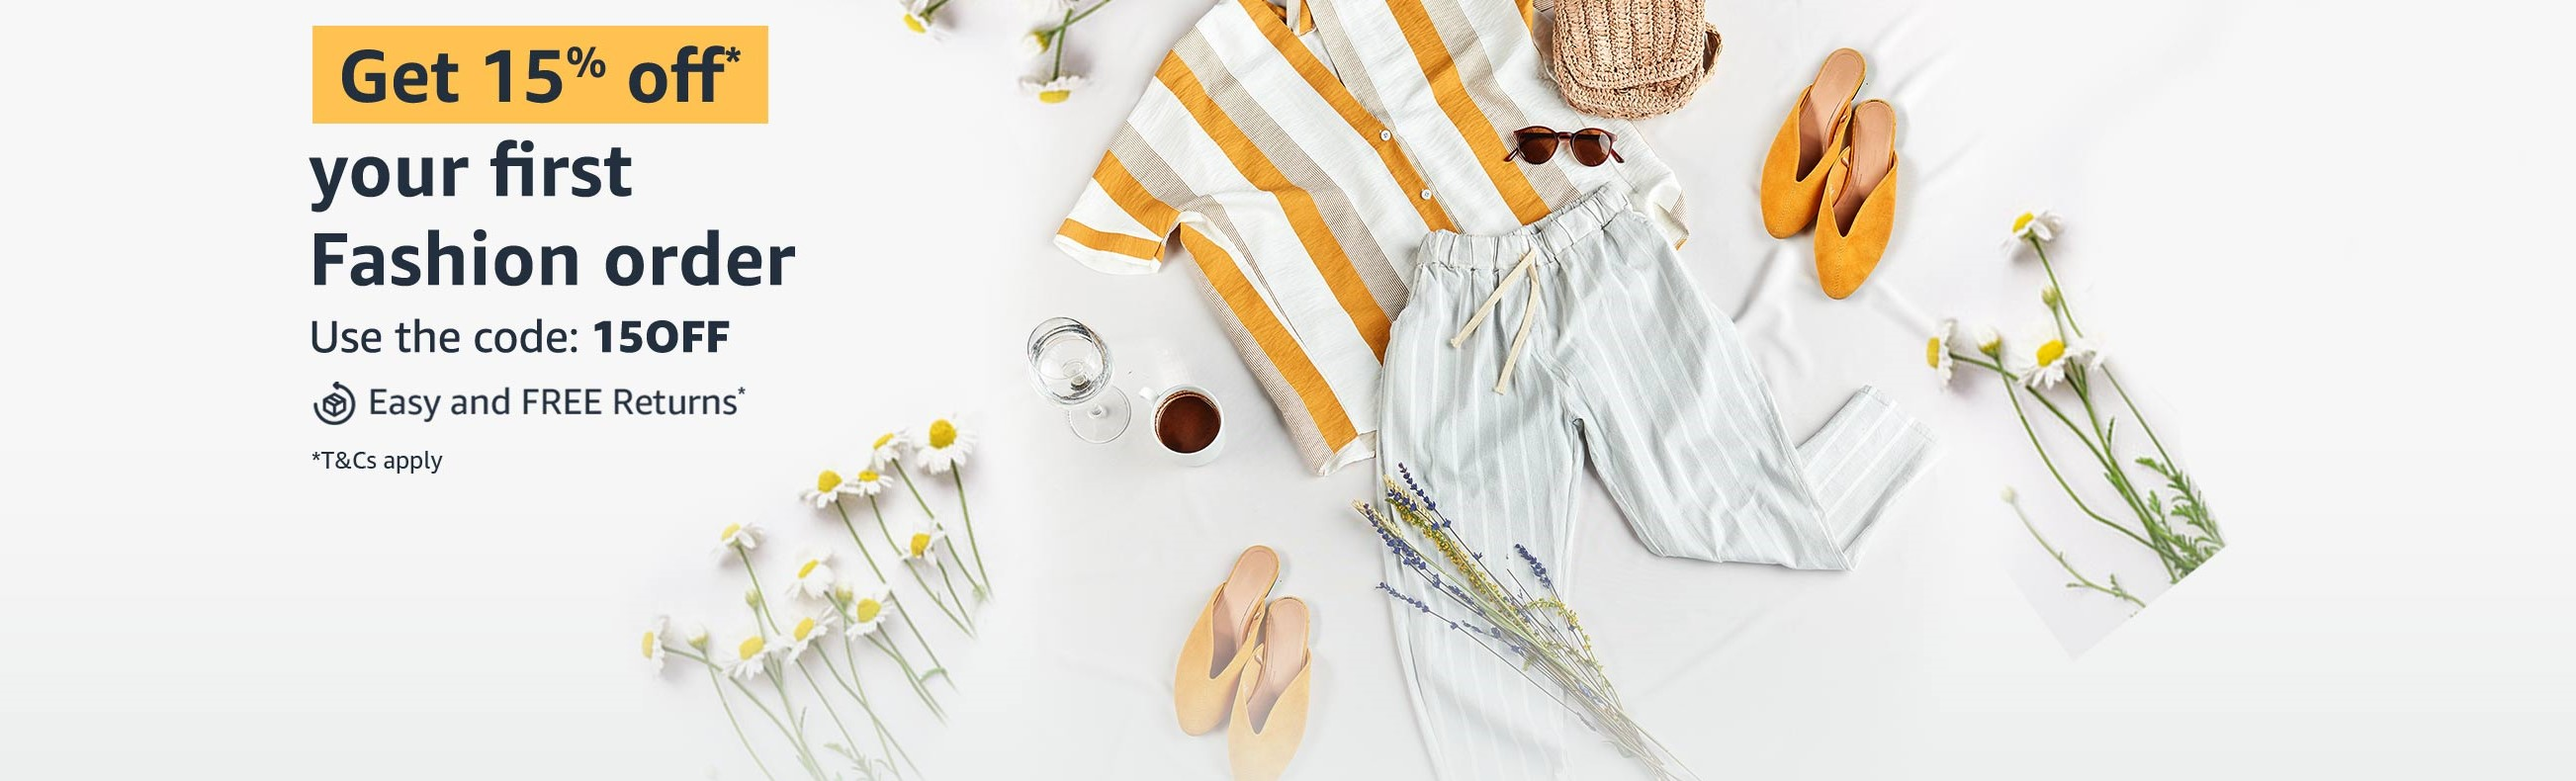
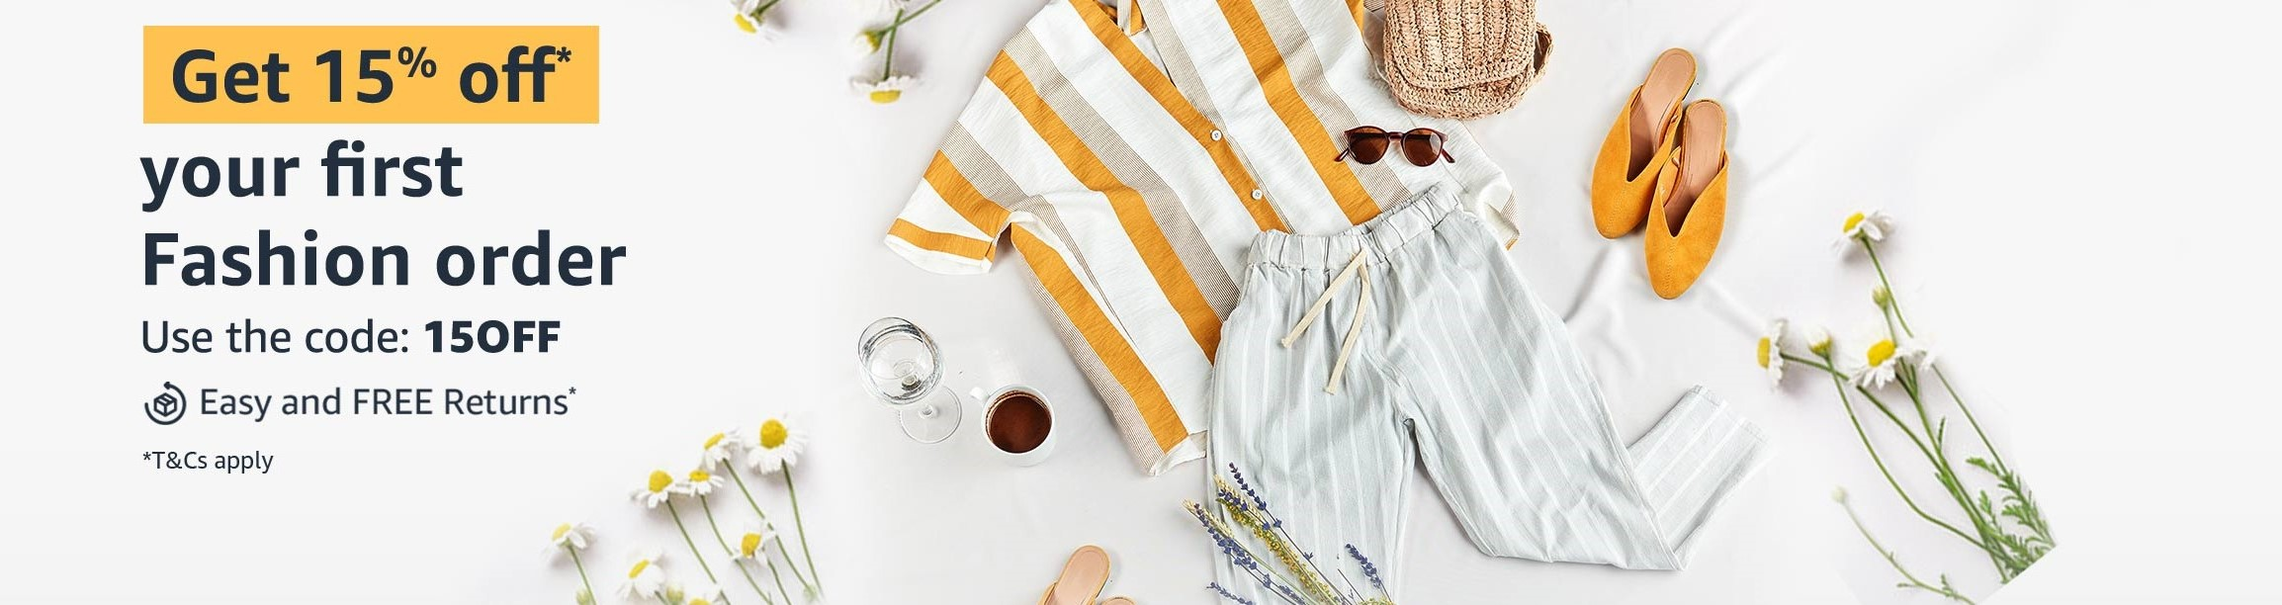
test

diff --git a/src/components/SearchInput.jsx b/src/components/SearchInput.jsx
@@ -4,6 +4,8 @@ import { MdOutlineClose } from "react-icons/md";
 import Link from "next/link";
 import { CiSearch } from "react-icons/ci";
 import { fetchData } from "@/hooks";
+import Image from "next/image";
+import PriceFormat from "./PriceFormate";
 
 const SearchInput = () => {
       const [searchQuery, setSearchQuery] = useState("");
@@ -89,10 +91,24 @@ const SearchInput = () => {
                                                       onClick={() => setSearchQuery("")}
                                                       className="flex items-center gap-x-2 text-base font-medium hover:bg-lightText/30 px-3 py-1.5"
                                                 >
-                                                      <CiSearch className="text-lg" /> {item?.title}
+                                                      {/* Product Image */}
+                                                      <Image
+                                                            className="h-14 w-14 border border-gray-300"
+                                                            src={item?.images[0]}
+                                                            alt={item?.title}
+                                                            width={200}
+                                                            height={200}
+                                                      />
+
+                                                      {/* Product Title and Price */}
+                                                      <div className="flex flex-col">
+                                                            <span>{item?.title}</span>
+                                                            <PriceFormat amount={item?.price} />
+                                                      </div>
                                                 </Link>
                                           ))}
                                     </div>
+
                               ) : (
                                     <div className="py-10 px-5">
                                           <p className="text-base">

diff --git a/src/components/ProductCart.jsx b/src/components/ProductCart.jsx
@@ -6,15 +6,15 @@ import AddToCartButton from "./AddToCartButton";
 
 const ProductCart = ({ product }) => {
       return (
-            <div className="border-2 border-amazonYellow relative">
+            <div className="shadow-lg shadow-gray-300 relative">
                   <Link href={{ pathname: `/product/${product?.id}`, query: { id: product?.id } }}>
-                        <div className=" border-b-2 border-amazonYellow px-8 py-4">
+                        <div className="px-8 py-4">
                               <div className="flex items-center justify-center ">
                                     <Image className="h-60 hover:scale-110 duration-300 w-52" src={product.images[0]} height={500} width={500} alt="productImage" />
                               </div>
                         </div>
-                        <MdFavoriteBorder size={25} className='absolute top-3 left-3 text-amazonYellow cursor-pointer' />
-                        <span className='absolute top-3 right-3 bg-amazonYellow/85 font-medium py-0.5 px-1.5 text-xs text-green-500'>13%</span>
+                        <MdFavoriteBorder size={3} className='absolute top-3 right-4 text-gray-200 cursor-pointer' />
+                        {/* <span className='absolute top-3 right-3 font-semibold py-0.5 px-1.5 text-[14px] text-green-500'>13%</span> */}
                   </Link>
                   <div className="px-4 py-2">
                         <h1 className="text-[20px] mt-1 font-semibold h-10 ">{product.title}</h1>

diff --git a/src/components/cart/CartProduct.jsx b/src/components/cart/CartProduct.jsx
@@ -18,11 +18,11 @@ const CartProduct = ({ product }) => {
             toast.success(`${product?.title.substring(0, 10)} deleted successfully!`)
       }
       return (
-            <Container className="flex flex-col lg:flex-row md:flex gap-4 border-b-2 border-amazonYellow relative">
+            <Container className="flex flex-col lg:flex-row md:flex gap-4 border-t-2 border-gray-200 relative">
                   {/*product Image start */}
                   <div className="lg:flex flex items-center justify-center">
                         <Link className="" href={{ pathname: `/product/${product.id}`, query: { id: product.id } }}>
-                              <Image className="h-48 w-48 lg:border-r-2 border-amazonYellow cursor-pointer" src={product?.images[0]} alt="cartImage" height={200} width={200} />
+                              <Image className="h-48 w-48 cursor-pointer" src={product?.images[0]} alt="cartImage" height={200} width={200} />
                         </Link>
                   </div>
                   {/*product Image end */}

diff --git a/src/components/CarouselBanner.jsx b/src/components/CarouselBanner.jsx
@@ -32,12 +32,12 @@ const CarouselBanner = () => {
                                     key={item?.title}
                                     src={item?.source}
                                     alt="bannerOne"
-                                    width={2520}
+                                    width={2120}
                                     height={1080}
                               />
                         ))}
                   </div>
-                  <div className="absolute top-0 left-0 inset-0 bg-gradient-to-b from-gray-900/10 via-gray-900/30 to-gray-300 dark:to-mainColor" />
+                  {/* <div className="absolute top-0 left-0 inset-0 bg-gradient-to-b from-gray-900/10 via-gray-900/30 to-gray-300 dark:to-mainColor" /> */}
             </div>
       );
 };

diff --git a/src/components/cart/CartProducts.jsx b/src/components/cart/CartProducts.jsx
@@ -20,7 +20,7 @@ const CartProducts = () => {
                                           </h1>
                                     </div>
                                     <div className="flex flex-col lg:flex-row justify-between gap-6 mt-10">
-                                          <div className="lg:w-2/3 w-full border-t-2 border-r-2 lg:border-r-2 border-l-2 border-amazonYellow ">
+                                          <div className="lg:w-2/3 w-full">
                                                 {cart.map((product) => (
                                                       <CartProduct key={product?.id} product={product} />
                                                 ))}

diff --git a/src/app/product/[id]/page.jsx b/src/app/product/[id]/page.jsx
@@ -14,8 +14,7 @@ const ProductPage = async ({ params }) => {
 
       return (
             <div className="py-10 px-4 lg:px-0">
-                  <h1 className="text-center mb-8 lg:text-4xl text-2xl text-green-600 font-medium tracking-wide">Single Product Page</h1>
-                  <Container className={"flex flex-col lg:flex-row justify-between gap-6 border-2  border-amazonYellow"}>
+                  <Container className={"flex flex-col lg:flex-row justify-between gap-6"}>
                         {/* Image Section */}
                         <div>
                               <ProductImage product={product} />

diff --git a/src/components/AddToCartButton.jsx b/src/components/AddToCartButton.jsx
@@ -38,7 +38,7 @@ const AddToCartButton = ({ className, product }) => {
                   <h1></h1>
                   {
                         existingProduct ?
-                              <div className={twMerge("flex items-center justify-between mt-4", className)}>
+                              <div className={twMerge("flex items-center gap-6 mt-4", className)}>
                                     <button
                                           disabled={existingProduct?.quantity <= 1}
                                           onClick={handleMinus}

diff --git a/src/components/ProductImage.jsx b/src/components/ProductImage.jsx
@@ -25,7 +25,7 @@ const ProductImage = ({ product }) => {
                               </button>
                         ))}
                   </div>
-                  <div className="lg:border-r-2 border-amazonYellow ">
+                  <div>
                         <Image className="lg:h-[400px] lg:w-96" src={imageClick} alt="img" height={200} width={200} />
                   </div>
             </div>
